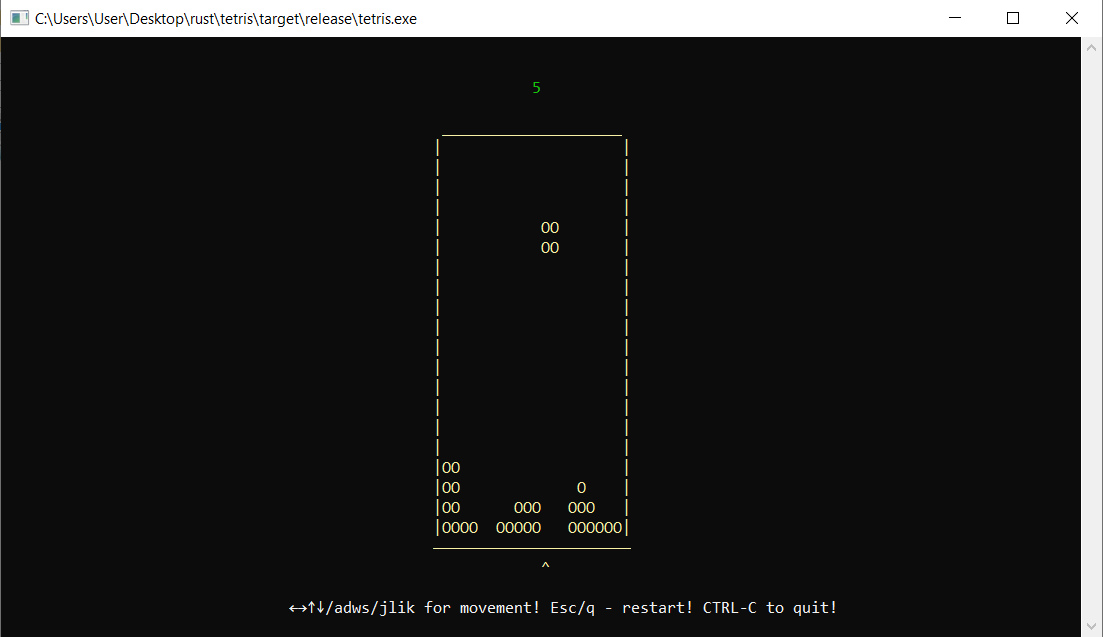
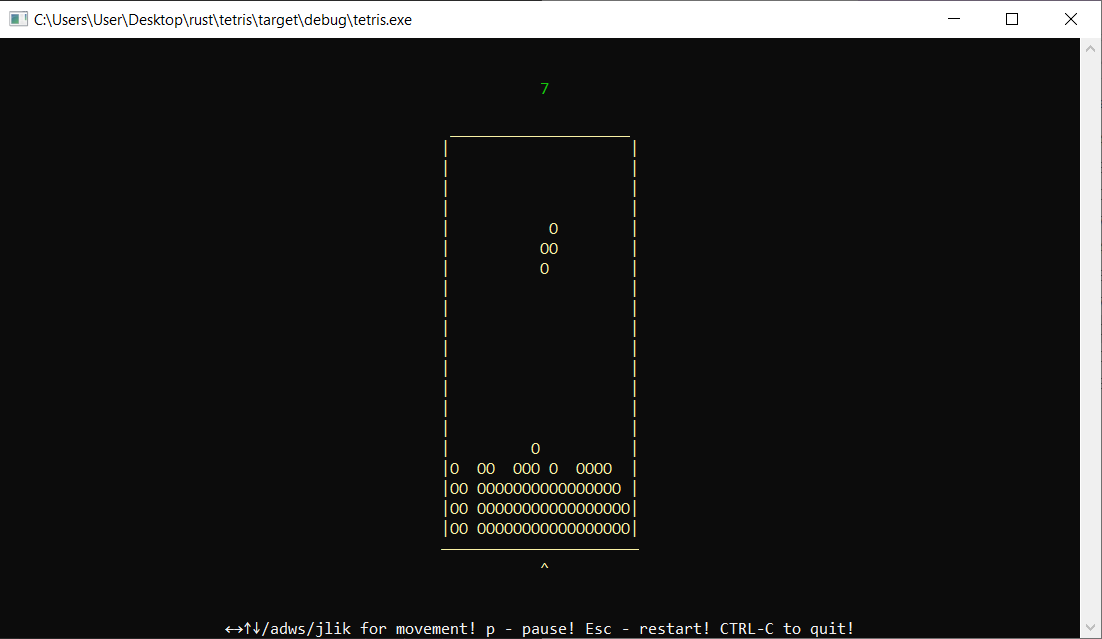
maybe final

diff --git a/src/grid.rs b/src/grid.rs
@@ -21,7 +21,7 @@ pub const GRID: [[u8; 20]; 20] = [
     [0, 0, 0, 0, 0, 0, 0, 0, 0, 0, 0, 0, 0, 0, 0, 0, 0, 0, 0, 0],
 ];
 
-use crate::{get_figure_matrix, Figures, MatrixPoint4X, SPEED};
+use crate::{get_figure_matrix, sleep, thread, Arc, Duration, Figures, MatrixPoint4X, Mutex};
 
 #[derive(PartialEq)]
 pub enum Side {
@@ -50,37 +50,31 @@ impl Grid {
         self.figure = Some(MatrixPoint4X::new(get_figure_matrix(type_figure)));
     }
 
-    pub fn move_down(&mut self, timer: &mut u16) -> Option<()> {
-        if *timer % SPEED == 0 {
-            *timer = 0;
-            if let Some(ref mut c) = self.current_cord {
-                draw_points(&mut self.grid, &self.figure.unwrap().arr, *c, 0);
-                for line in self.figure.unwrap().arr.into_iter().enumerate() {
-                    for item in line.1.into_iter().enumerate() {
-                        if item.1 == 1 {
-                            if c[1] + (line.0 as u8) + 1 < 20 {
-                                if self.grid[c[1] as usize + 1 + line.0][c[0] as usize + item.0]
-                                    != 0
-                                {
-                                    draw_points(&mut self.grid, &self.figure.unwrap().arr, *c, 1);
-                                    return None;
-                                }
-                            } else {
+    pub fn move_down(&mut self) -> Option<()> {
+        if let Some(ref mut c) = self.current_cord {
+            draw_points(&mut self.grid, &self.figure.unwrap().arr, *c, 0);
+            for line in self.figure.unwrap().arr.into_iter().enumerate() {
+                for item in line.1.into_iter().enumerate() {
+                    if item.1 == 1 {
+                        if c[1] + (line.0 as u8) + 1 < 20 {
+                            if self.grid[c[1] as usize + 1 + line.0][c[0] as usize + item.0] != 0 {
                                 draw_points(&mut self.grid, &self.figure.unwrap().arr, *c, 1);
                                 return None;
                             }
+                        } else {
+                            draw_points(&mut self.grid, &self.figure.unwrap().arr, *c, 1);
+                            return None;
                         }
                     }
                 }
-
-                c[1] += 1;
-
-                draw_points(&mut self.grid, &self.figure.unwrap().arr, *c, 1);
-                return Some(());
             }
-            return None;
+
+            c[1] += 1;
+
+            draw_points(&mut self.grid, &self.figure.unwrap().arr, *c, 1);
+            return Some(());
         }
-        Some(())
+        return None;
     }
 
     pub fn move_to_side(&mut self, l_r: &mut Side) {
@@ -164,6 +158,15 @@ impl Grid {
                 *coin += 1;
             }
         }
+    }
+    pub fn move_down_sleep(
+        gd: Arc<Mutex<Grid>>,
+        info: Arc<Mutex<Option<()>>>,
+    ) -> thread::JoinHandle<()> {
+        thread::spawn(move || loop {
+            sleep(Duration::from_millis(300));
+            *(info.lock().unwrap()) = (gd.lock().unwrap()).move_down();
+        })
     }
 }
 

diff --git a/src/main.rs b/src/main.rs
@@ -1,6 +1,3 @@
-const SPEED: u16 = 5;
-// пока при компиляции надо менять, чем меньше число тем быстрее падает фигурка
-
 mod grid;
 mod handler;
 mod matrix;
@@ -31,7 +28,6 @@ fn main() -> crossterm::Result<()> {
     let ind_y = 4;
     let mut coin = 0;
     let mut where_go = Side::Stop;
-    let mut timer: u16 = 0;
     let mut exi = false;
     execute!(
         stdout(),
@@ -42,7 +38,7 @@ fn main() -> crossterm::Result<()> {
 
     execute!(
         stdout(),
-        cursor::MoveTo(size_terminal.0 / 2 - 10 - 20, size_terminal.1)
+        cursor::MoveTo(size_terminal.0 / 2 - 35, size_terminal.1)
     )
     .unwrap();
 
@@ -52,10 +48,15 @@ fn main() -> crossterm::Result<()> {
         Print("←→↑↓/adws/jlik for movement! p - pause! Esc - restart! CTRL-C to quit!")
     )
     .unwrap();
+    terminal::enable_raw_mode().unwrap();
+
+    let info = Arc::new(Mutex::new(None));
+
+    let _thread_move_down = Grid::move_down_sleep(gd.clone(), info.clone());
 
     loop {
         size_terminal = terminal::size().unwrap();
-        timer += 1;
+
         {
             execute!(stdout(), SetForegroundColor(Color::Green))?;
             execute!(stdout(), cursor::MoveTo(size_terminal.0 / 2, 2))?;
@@ -118,7 +119,7 @@ fn main() -> crossterm::Result<()> {
             }
         }
         let mut lock_gd = gd.lock().unwrap();
-        if lock_gd.current_cord.is_none() || lock_gd.move_down(&mut timer).is_none() {
+        if lock_gd.current_cord.is_none() || (info.lock().unwrap()).is_none() {
             lock_gd.add_figure(get_random_figure(gener_rand.gen::<u8>() % 7));
             lock_gd.ready_clean(&mut coin);
         } else {
@@ -128,10 +129,10 @@ fn main() -> crossterm::Result<()> {
         if poll(Duration::from_millis(10)).unwrap() {
             event_handler_poll(&mut where_go, &mut lock_gd, &mut coin, &mut exi)
         }
-        terminal::disable_raw_mode().unwrap();
 
         if exi || size_terminal.0 < 23 {
             execute!(stdout(), terminal::LeaveAlternateScreen, cursor::Show)?;
+            terminal::disable_raw_mode().unwrap();
             break;
         }
     }

diff --git a/src/handler.rs b/src/handler.rs
@@ -24,7 +24,7 @@ pub fn event_handler_poll(where_go: &mut Side, gd: &mut Grid, coin: &mut usize, 
                     KeyCode::Up => {
                         *where_go = Side::Up;
                     }
-                    KeyCode::Down => while let Some(_) = gd.move_down(&mut 0) {},
+                    KeyCode::Down => while let Some(_) = gd.move_down() {},
                     KeyCode::Esc => {
                         gd.grid = GRID;
                         *coin = 0;
@@ -47,7 +47,7 @@ pub fn event_handler_poll(where_go: &mut Side, gd: &mut Grid, coin: &mut usize, 
                                 *where_go = Side::Right;
                             }
                         }
-                        's' | 'k' => while let Some(_) = gd.move_down(&mut 0) {},
+                        's' | 'k' => while let Some(_) = gd.move_down() {},
                         'w' | 'i' => *where_go = Side::Up,
 
                         'p' | 'P' => {
